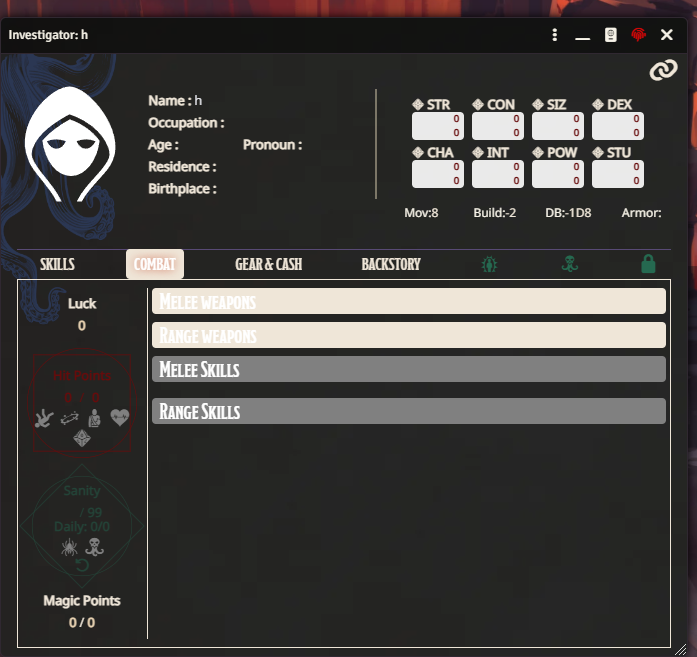
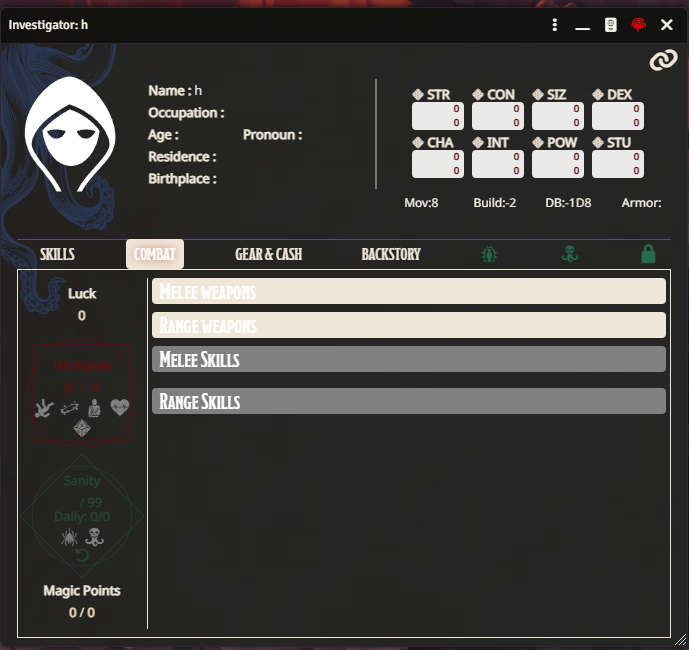
fix(ui): theme the v2 sheet colours, refuse to build under a live Foundry
The v2 investigator sheet hardcoded its hit point and sanity colours as
#670b0b and #234337 instead of using theme variables, so the dark mode
overrides never reached them and both headings stayed at roughly 2.5:1
against the dark sheet. They now use the --color-*-label variables added
for the v3 sheet. Two more hardcoded values went the same way: near-black
input text and a panel colour that already had a themed equivalent.

Also adds a prebuild guard. The build rewrites the LevelDB packs in place
while Foundry holds them open from startup, which leaves the running
world unable to read any compendium:

  Failed to connect to database "cthulhud100.system-doc"

That is why the View System Manual button stopped working - the manual
documents are present and their ids are correct, but the pack itself
would not open. The guard refuses the build instead of corrupting the
packs, with ALLOW_BUILD_WHILE_RUNNING=1 to bypass.

diff --git a/scripts/foundry-running-check.js b/scripts/foundry-running-check.js
@@ -1,0 +1,70 @@
+import { execSync } from 'child_process'
+import * as fs from 'fs'
+import * as path from 'path'
+
+/**
+ * Refuse to build while FoundryVTT is running against the target data path.
+ *
+ * The build rewrites the LevelDB compendium directories in place. Foundry opens
+ * those databases once at startup and keeps the handles, so overwriting them
+ * under a live server leaves it reading files that no longer exist:
+ *
+ *   Failed to connect to database "cthulhud100.system-doc": Database failed to open
+ *
+ * The system keeps working apart from anything that touches a compendium, which
+ * makes it look like an unrelated bug - a compendium browser that opens empty,
+ * or the "View System Manual" button doing nothing. Stopping Foundry first is
+ * the only clean fix, so this refuses the build rather than silently corrupting
+ * the packs.
+ *
+ * Set ALLOW_BUILD_WHILE_RUNNING=1 to bypass, for the case where the running
+ * server points at a different data path.
+ */
+
+if (process.env.ALLOW_BUILD_WHILE_RUNNING === '1') {
+  process.exit(0)
+}
+
+const configPath = path.join(process.cwd(), 'fvtt.config.json')
+if (!fs.existsSync(configPath)) {
+  process.exit(0)
+}
+
+const config = JSON.parse(fs.readFileSync(configPath, 'utf8'))
+const selection = config[config.currentSelection]
+const target = typeof selection === 'string' ? selection : Object.values(selection ?? {})[0]
+if (!target) {
+  process.exit(0)
+}
+
+let processes = ''
+try {
+  processes = execSync('ps -eo pid,args', { encoding: 'utf8' })
+} catch {
+  process.exit(0)
+}
+
+const running = processes
+  .split('\n')
+  .filter(line => /resources\/app\/main\.js/.test(line))
+  .map(line => line.trim())
+
+if (running.length === 0) {
+  process.exit(0)
+}
+
+console.error('\n  FoundryVTT is running.\n')
+for (const line of running) {
+  console.error('    ' + line)
+}
+console.error(`
+  The build rewrites the LevelDB packs in ${target}/Data/systems/, and Foundry
+  holds those databases open from startup. Overwriting them now would break every
+  compendium in the running world until it is restarted.
+
+  Stop Foundry, run the build, then start it again.
+
+  If that server uses a different data path, re-run with:
+    ALLOW_BUILD_WHILE_RUNNING=1 npm run build
+`)
+process.exit(1)

diff --git a/styles/coc7-investigator-v2.less b/styles/coc7-investigator-v2.less
@@ -108,7 +108,7 @@ body.theme-light .application.coc7.sheetV2:not(.investigator-summarized):not(.in
             border: 0;
             background: transparent;
             text-overflow: ellipsis;
-            color: #191813;
+            color: var(--color-text);
 
             &:hover,
             &:focus {
@@ -367,7 +367,7 @@ body.theme-light .application.coc7.sheetV2:not(.investigator-summarized):not(.in
           background-size: contain;
           background-repeat: no-repeat;
           background-position: center;
-          color: #670b0b;
+          color: var(--color-hp-label);
 
           .hp-text {
             padding-top: 1rem;
@@ -375,7 +375,7 @@ body.theme-light .application.coc7.sheetV2:not(.investigator-summarized):not(.in
             margin: 0 auto;
 
             input {
-              color: #670b0b;
+              color: var(--color-hp-label);
             }
 
             .status {
@@ -384,7 +384,7 @@ body.theme-light .application.coc7.sheetV2:not(.investigator-summarized):not(.in
               color: grey;
 
               .status-on {
-                color: #670b0b;
+                color: var(--color-hp-label);
               }
             }
           }
@@ -397,7 +397,7 @@ body.theme-light .application.coc7.sheetV2:not(.investigator-summarized):not(.in
           background-repeat: no-repeat;
           background-position: center;
           margin-top: 5px;
-          color: #234337;
+          color: var(--color-sanity-label);
 
           .san-text {
             padding-top: 1rem;
@@ -409,7 +409,7 @@ body.theme-light .application.coc7.sheetV2:not(.investigator-summarized):not(.in
             }
 
             input {
-              color: #234337;
+              color: var(--color-sanity-label);
             }
 
             .status {
@@ -418,7 +418,7 @@ body.theme-light .application.coc7.sheetV2:not(.investigator-summarized):not(.in
               color: grey;
 
               .status-on {
-                color: #234337;
+                color: var(--color-sanity-label);
               }
             }
           }
@@ -469,7 +469,7 @@ body.theme-light .application.coc7.sheetV2:not(.investigator-summarized):not(.in
               .current-value,
               .max-value {
                 span {
-                  color: #191813;
+                  color: var(--color-text);
                 }
 
                 input {
@@ -477,7 +477,7 @@ body.theme-light .application.coc7.sheetV2:not(.investigator-summarized):not(.in
                   border: 0;
                   border-radius: @4px;
                   text-align: center;
-                  color: #191813;
+                  color: var(--color-text);
                 }
               }
 
@@ -1004,7 +1004,7 @@ body.theme-dark .application.coc7.sheetV2:not(.investigator-summarized):not(.inv
 
       .right-panel {
         .item .adjustment-value span {
-          color: #2b3753;
+          color: var(--color-sheet-front);
         }
       }
     }